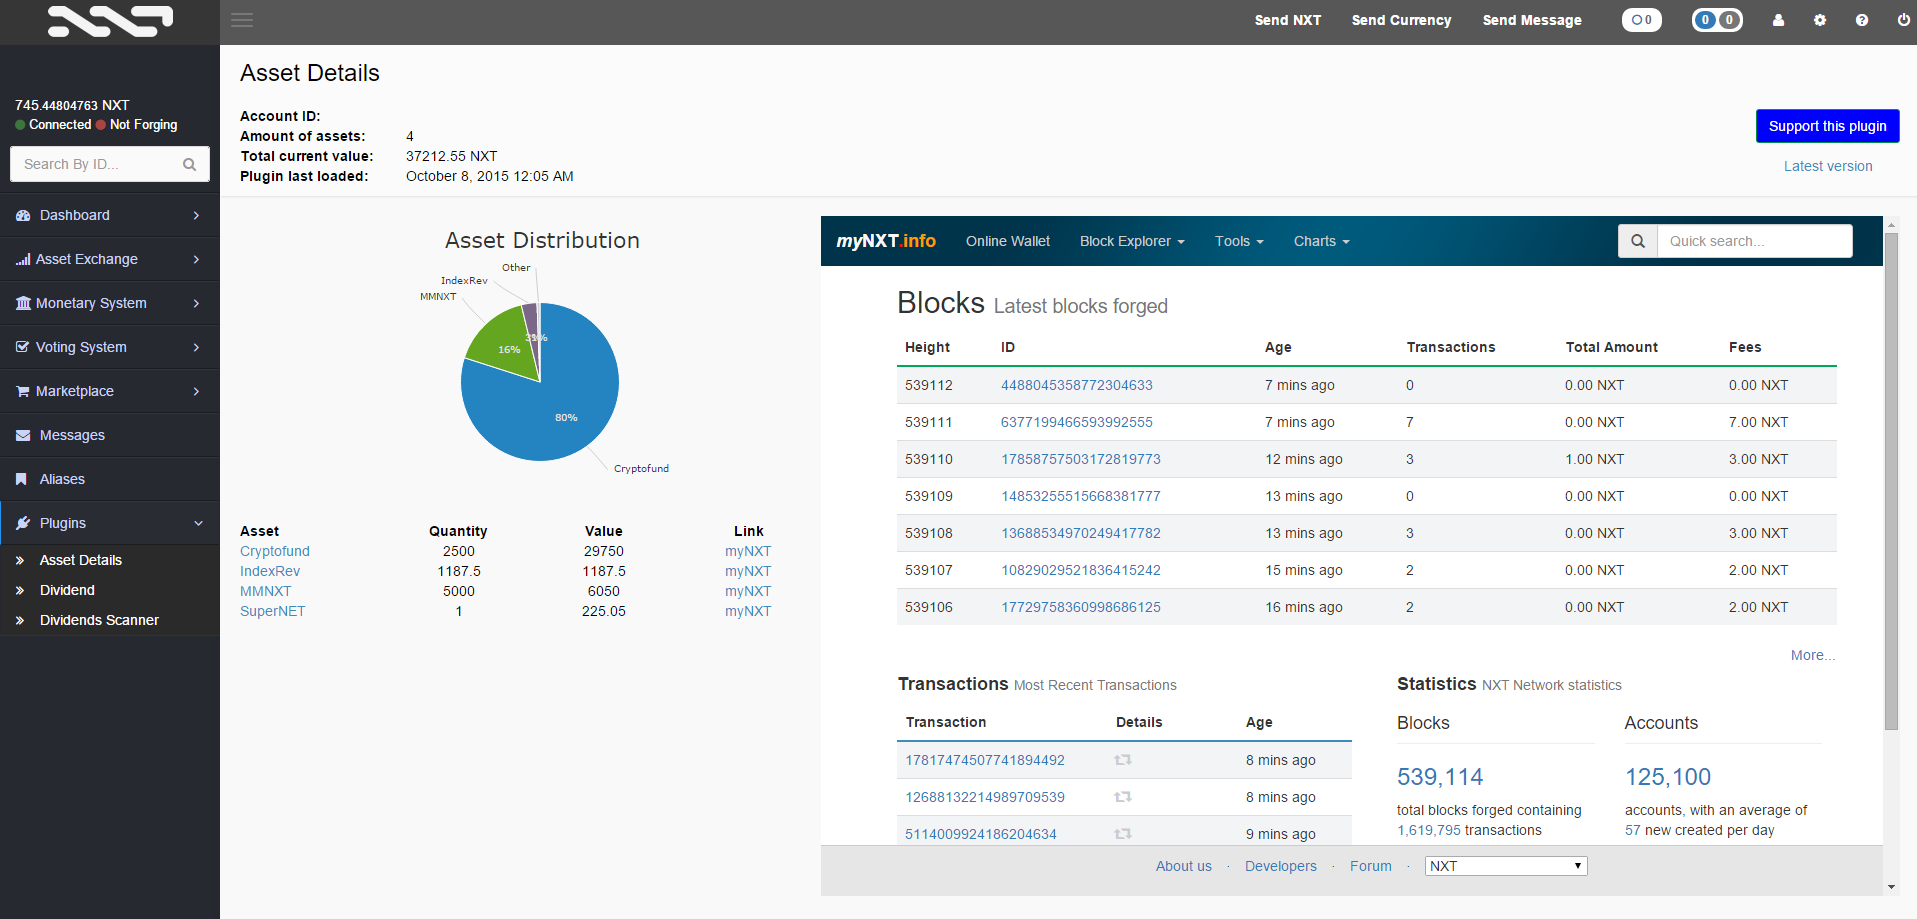
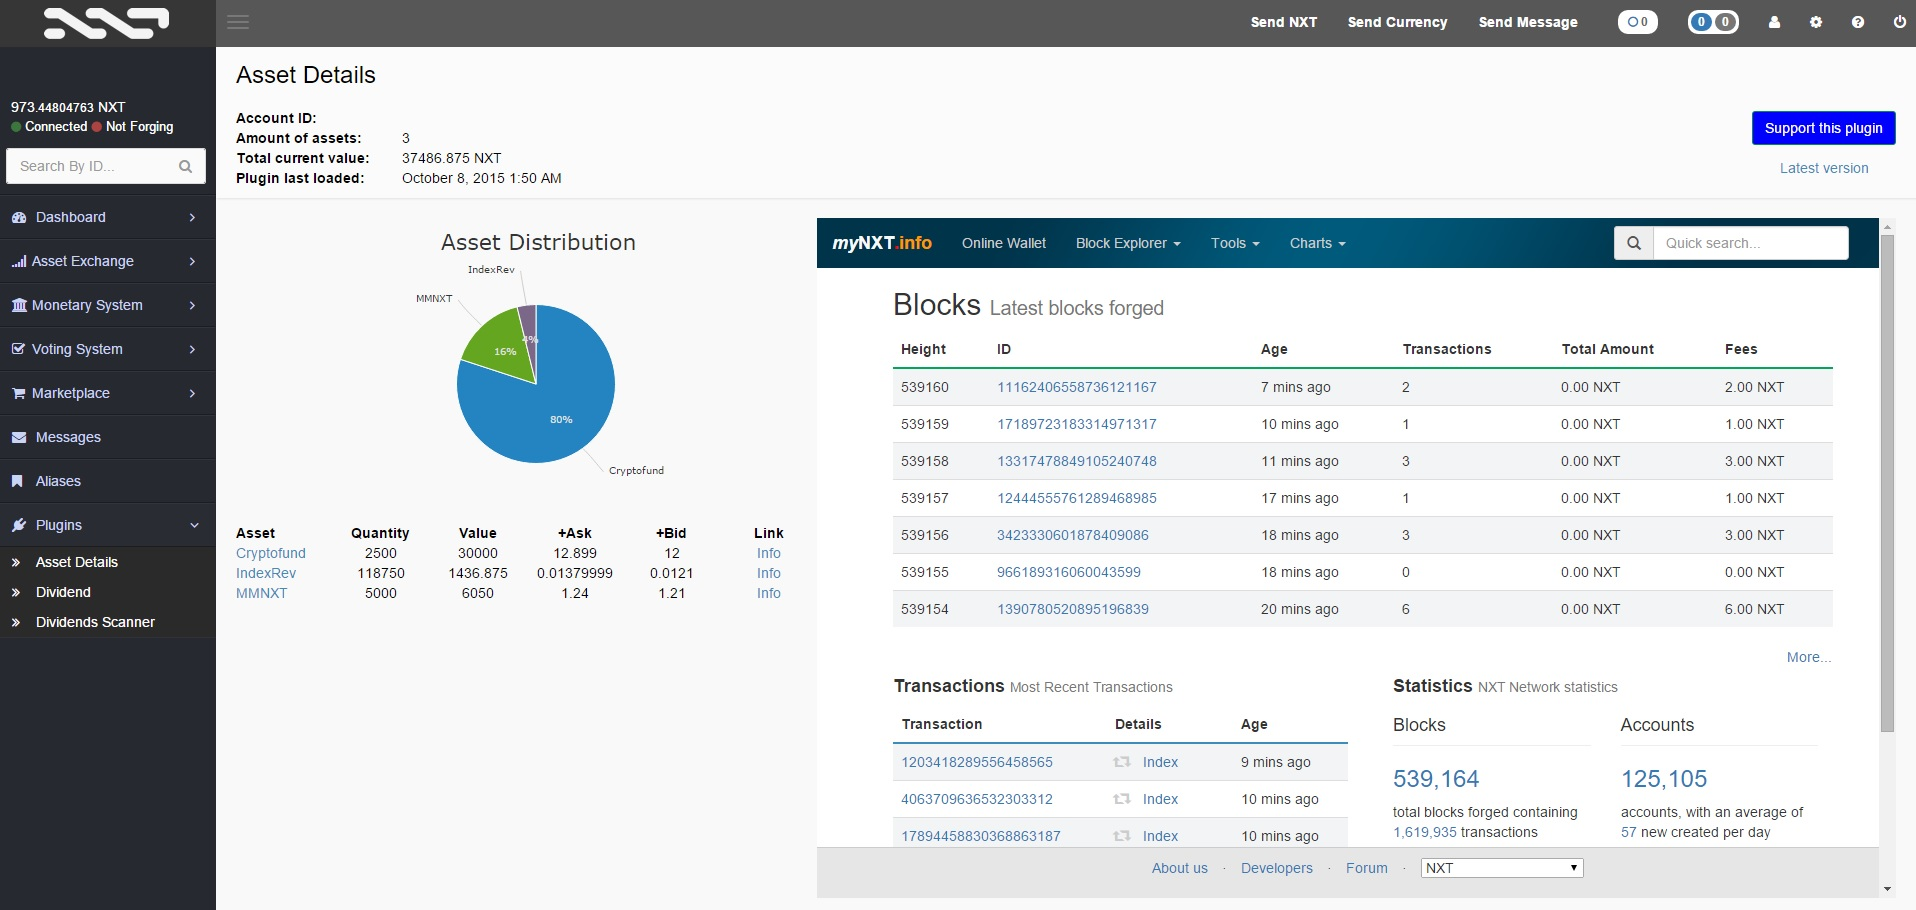
added ask and bid information

diff --git a/html/pages/asset_details.html b/html/pages/asset_details.html
@@ -6,8 +6,8 @@
 			<tr>
 				<td width = 10%><strong>Account ID: </strong></td>
 				<td><span id="ass_acc"></span></td>
-				<td rowspan = 2 width = 5% align = center><button type="button" class="btn btn-success" data-toggle="modal" data-target="#send_money_modal" data-account="NXT-NNGD-V8TN-3MZR-DWWBE" data-i18n="send_money" style=background-color:blue>Support this plugin</button></td>
-
+				<td rowspan = 2 width = 5% align = center><button type="button" class="btn btn-success" data-toggle="modal" data-target="#send_money_modal" data-account="NXT-NNGD-V8TN-3MZR-DWWBE" 
+data-i18n="send_money" style=background-color:blue>Support this plugin</button></td>
 			</tr>
 			<tr>
 				<td width = 10%><strong>Amount of assets: </strong></td>
@@ -17,7 +17,6 @@
 				<td width = 10%><strong>Total current value: </strong></td>
 				<td><span id="asset_totalvalue"></span> NXT</td>
 				<td rowspan = 2 width = 5% align = center><a href="https://github.com/testdruif/asset_details/releases" target=_blank>Latest version</a></td>
-
 			</tr>
 			<tr>
 				<td width = 10%><strong>Plugin last loaded: </strong></td>
@@ -35,10 +34,12 @@
 					<table id="p_asset_details_table" width = 100%>
 						<thead>
 							<tr>
-								<td width = 25% align = left><strong>Asset</strong></td>
-								<td width = 25% align = center><strong>Quantity</strong></td>
-								<td width = 25% align = center><strong>Value</strong></td>
-								<td width = 25% align = center><strong>Link</strong></td>
+								<td width = 15% align = left><strong>Asset</strong></td>
+								<td width = 15% align = center><strong>Quantity</strong></td>
+								<td width = 15% align = center><strong>Value</strong></td>
+								<td width = 15% align = center><strong>+Ask</strong></td>
+								<td width = 15% align = center><strong>+Bid</strong></td>
+								<td width = 15% align = center><strong>Link</strong></td>
 							</tr>
 						</thead>
 						<tbody>
